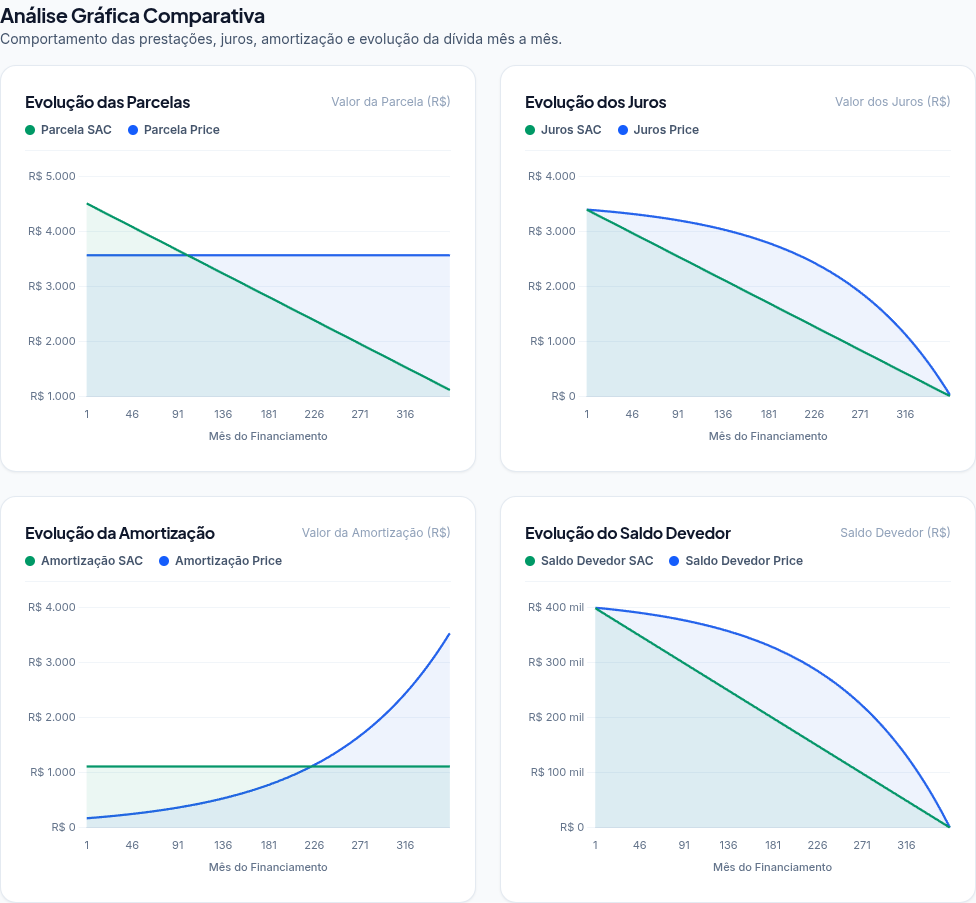
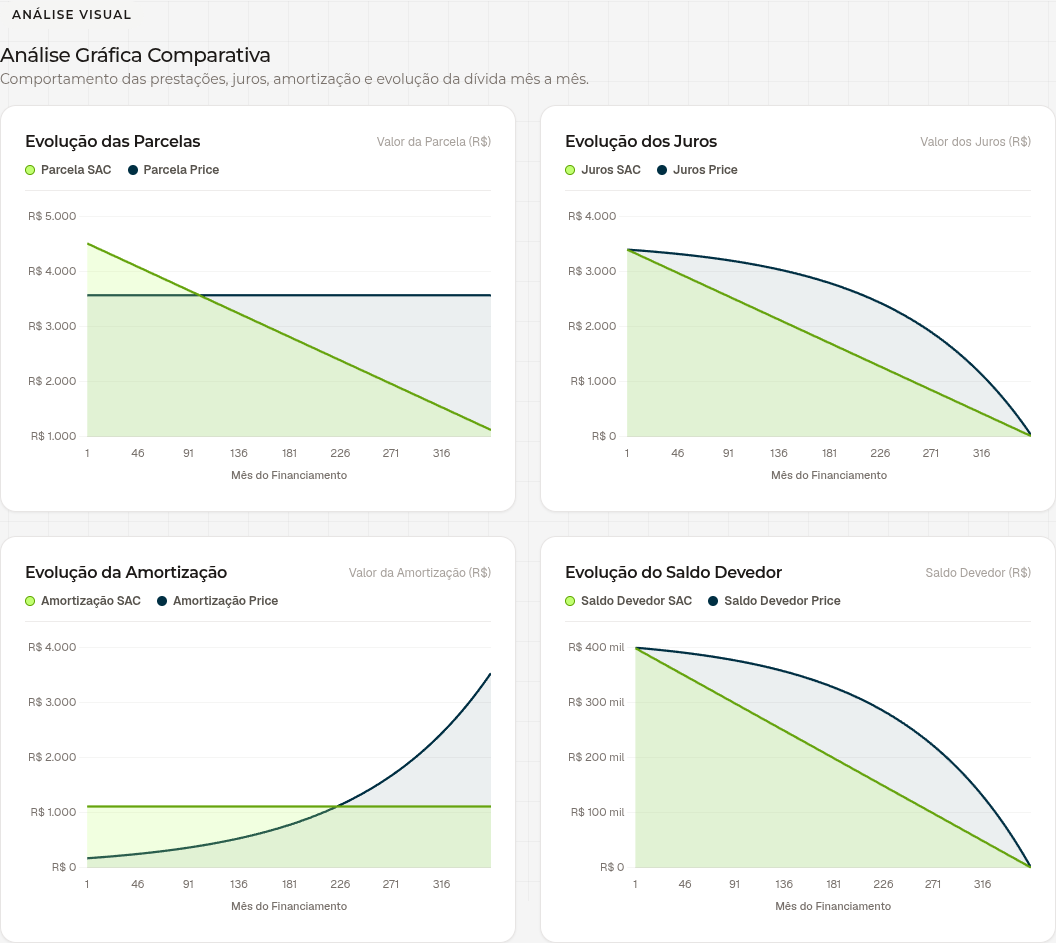
feat: complete Sprint 28 — NectArr static identity, regression, screenshots and v1.6 final QA (code-audit Pass)

diff --git a/SPRINTS.md b/SPRINTS.md
@@ -1,12 +1,12 @@
 # Sprints — Calculadora de Financiamento Imobiliário
 
 **Projeto:** Calculadora de Financiamento Imobiliário  
-**Base:** PRD v1.3 + v1.4 + v1.5 (implementados e validados em 22/10/2026) + v1.6 (Redesign NectArr Design System — Sprints 23–27 concluídas em 01/11/2026, Sprint 28 planejada)  
+**Base:** PRD v1.3 + v1.4 + v1.5 (implementados e validados em 22/10/2026) + v1.6 (Redesign NectArr Design System — Sprints 23–28 concluídas em 01/11/2026)  
 **Metodologia:** Sprints iterativas com entregas incrementais  
 **Stack Frontend:** React 19 + TypeScript ~6.0 + Tailwind CSS 4.3 + Vite 8.1 (Chart.js 4.5, Vitest 5.0, OxLint 1.71)  
 **Stack Infra/Containers (v1.5):** Docker Multi-Stage (`node:22-alpine` + `nginxinc/nginx-unprivileged:stable-alpine`) + Docker Compose  
 **Design System (v1.6):** NectArr Design System (`design_system/design-system.html` — `Geist` + `Montserrat`, Brand Lime `#c1ff72`, Deep Navy `#002f43`, `stone`/`neutral`, `.glass-panel`, `.spotlight-card`, `.grid-lines`)  
-**Status em 01/11/2026:** Sprints 1–27 implementadas e validadas (123 testes passando em 10 arquivos, OxLint/Prettier limpos, `dist/` ~460KB, containers `app`, `dev` e `test` operacionais, Sprints 23, 25, 26 e 27 com code-audit "Pass"); Sprint 28 planejada para conclusão do redesign v1.6.
+**Status em 01/11/2026:** Sprints 1–28 implementadas e validadas (123 testes passando em 10 arquivos, OxLint/Prettier limpos, `dist/` 464KB, containers `app`, `dev` e `test` operacionais, Sprints 23 e 25–28 com code-audit "Pass"); Redesign v1.6 concluído.
 
 ---
 
@@ -714,9 +714,11 @@
 
 ---
 
-## Sprint 28 — Identidade Estática (`favicon`, `og-image`), Regressão, Screenshots e QA Final v1.6
+## Sprint 28 — Identidade Estática (`favicon`, `og-image`), Regressão, Screenshots e QA Final v1.6 — ✅ Concluída em 01/11/2026
 
 **Objetivo:** Atualizar os assets gráficos estáticos, auditar a remoção completa da temática legada (`slate/blue/emerald`), validar os 123+ testes e o container Docker, e regenerar as capturas de tela oficiais do `README.md` (RDS-002, RDS-008, RDS-010).
+
+**Status:** ✅ Implementada e validada em 01/11/2026 — `npm run lint`, `format:check`, `test` (123/123) e `build` (`dist/` 464KB) passando localmente e no container `test` (exit code `0`); screenshots recapturados via Playwright (form preenchido 50000000/10000000/085/360); auditoria de código com veredito "Pass" (zero findings).
 
 ### Tarefas
 
@@ -733,6 +735,12 @@
 ### Dependências
 - Sprints 23–27 concluídas
 
+> **Notas de implementação (01/11/2026):**
+> - **S28-01:** `favicon.svg` usa tile Brand Lime (`#c1ff72`, superfície CTA do DS §02/§03) com glifos Ink (`#1c1917`) e Deep Navy (`#002f43`) para visibilidade em abas claras/escuras — desvio documentado do "fundo `#1c1917`" literal, mantendo as 3 cores da identidade. `og-image.svg` usa superfície de página `neutral-100` (`#f5f5f5`) + card branco com pílulas SAC Lime e Price Navy.
+> - **S28-02:** zero classes utilitárias legadas (`bg-/text-/border-/from-/to-/via-/ring-` + `slate-/blue-/emerald-`) em `src/`; o padrão ingênuo `rg '(slate|emerald|blue)-'` casa apenas o substring `slate` dentro de `-translate-y-` (`InputField.tsx:47,75` — utilitário de transform, não cor). Zero hex legados (`#0F172B`, `#2563EB`, `#38BDF8`, `#34D399`, `#10B981`) e zero referências a `Inter`/`Plus Jakarta Sans` em `src/` + `index.html`.
+> - **S28-03:** `npm run lint` OK, `format:check` OK, `test` 123/123 OK, `build` OK (`dist/` 464KB < 500KB, inclui `favicon.svg` + `og-image.svg`), `docker compose --profile test run --rm --build test` exit `0` (123/123).
+> - **S28-04:** 6 screenshots recapturados em `docs/screenshots/` com a interface NectArr (valores de referência: SAC R$ 4.511,11 inicial, economia R$ 271.328,70 / -21,1%, equilíbrio 101º mês); `README.md`, `calculadora-fi/README.md`, `AGENTS.md`, `PRD.md` e `SPRINTS.md` atualizados para v1.6.
+
 ---
 
 ## Definição de Pronto (DoD)
@@ -747,7 +755,7 @@ Cada Sprint só será considerada completa quando:
 - [ ] Code review realizado
 - [x] Documentação atualizada — PRD v1.3 + v1.4, SPRINTS (Sprints 1–18), README com screenshots em 22/10/2026
 - [x] Dockerização v1.5 — PRD §29 + SPRINTS 19–22 implementados e validados em 22/10/2026 (`app` healthy non-root na porta 8080, `dev` com HMR na porta 5173, `test` com 123/123 testes passando)
-- [ ] Redesign NectArr Design System v1.6 — PRD §30 + SPRINTS 23–28 (Sprints 23–27 concluídas em 01/11/2026; Sprint 28 planejada)
+- [x] Redesign NectArr Design System v1.6 — PRD §30 + SPRINTS 23–28 (Sprints 23–28 concluídas em 01/11/2026)
 
 > DoD específico das Sprints 13–18 (refatoração segura — **concluído**): sem mudança visual/funcional (RFR-001); `npx vitest run` PASS (123 testes / 10 arquivos); `rg 'replace\(/\\./g'` sem ocorrências fora de `format.ts`; `tsc -b && vite build` OK; `npm run lint` zero errors e `format:check` OK.
 
@@ -901,5 +909,5 @@ Sprint 28 (Assets SVG + Auditoria Cromática + 123 Testes + Screenshots)
 
 ---
 
-**Status em 01/11/2026:** Sprints 1–27 implementadas e validadas (123 testes passando em 10 arquivos, `dist/` ~460KB, Dockerização multi-stage + Docker Compose verificados E2E, Sprints 23, 25, 26 e 27 com code-audit "Pass"). Sprint 28 especificada e pronta para implementação final do Redesign v1.6 (`design_system/design-system.html`).  
-**Próximo passo:** Executar a Sprint 28 (Redesign v1.6), seguida de (1) testes cross-browser e (2) PWA / INCC-TR / PDF-XLSX / ITBI.
+**Status em 01/11/2026:** Sprints 1–28 implementadas e validadas (123 testes passando em 10 arquivos, `dist/` 464KB, Dockerização multi-stage + Docker Compose verificados E2E, Sprints 23 e 25–28 com code-audit "Pass"). Redesign v1.6 100% concluído (`design_system/design-system.html`).  
+**Próximo passo:** (1) testes cross-browser e (2) PWA / INCC-TR / PDF-XLSX / ITBI.

diff --git a/README.md b/README.md
@@ -86,7 +86,7 @@ Abas SAC / Price / Comparação com fórmulas e quadro decisório.
 | Testes | Vitest + Testing Library + jsdom | 5.0 + 16.3 |
 | Qualidade | OxLint + Prettier | 1.71 + 3.9 |
 | Containers | Docker Multi-Stage (`node:22-alpine` + `nginxinc/nginx-unprivileged:stable-alpine`) + Docker Compose | — |
-| Fontes | Inter + Plus Jakarta Sans (Google Fonts) | — |
+| Fontes | Geist + Montserrat (Google Fonts, NectArr Design System) | — |
 
 Sem backend. Todos os cálculos são locais no navegador.
 
@@ -220,7 +220,7 @@ Execute dentro de `calculadora-fi/`:
 │   ├── Dockerfile           # Multi-stage (base, dev, check, builder, prod)
 │   ├── nginx.conf           # Configuração SPA, cache, gzip e security headers (porta 8080)
 │   ├── vite.config.ts
-│   ├── dist/                # build (gerado, 460KB em 22/10/2026)
+│   ├── dist/                # build (gerado, 464KB em 01/11/2026)
 │   └── package.json
 ├── docs/
 │   └── screenshots/         # Prints usados neste README
@@ -235,7 +235,7 @@ Execute dentro de `calculadora-fi/`:
 └── README.md                # Este arquivo
 ```
 
-> Documentos de produto em `PRD.md` (v1.5) e `SPRINTS.md` (Sprints 1-22) — ver `## Documentação`.
+> Documentos de produto em `PRD.md` (v1.6) e `SPRINTS.md` (Sprints 1–28) — ver `## Documentação`.
 
 Fórmulas:
 
@@ -256,10 +256,10 @@ Validações exibem mensagens em pt-BR no formulário.
 
 ```bash
 cd calculadora-fi
-npm run test        # 123/123 Vitest passando (10 arquivos) — verificado em 22/10/2026
-npm run lint        # oxlint limpo — verificado em 22/10/2026
+npm run test        # 123/123 Vitest passando (10 arquivos) — verificado em 01/11/2026
+npm run lint        # oxlint limpo — verificado em 01/11/2026
 npm run format:check
-npm run build       # tsc -b + vite build OK — dist/ 460KB (<500KB) em 22/10/2026
+npm run build       # tsc -b + vite build OK — dist/ 464KB (<500KB) em 01/11/2026
 ```
 
 Critérios DoD por sprint: testes passando, build limpo, responsivo (validado em 390px em 22/10/2026; faixa total 320–2560 e cross-browser ainda sem teste formal — ver `SPRINTS.md`).
@@ -277,8 +277,8 @@ npm run dev  # :5173
 
 ## Documentação
 
-- `PRD.md` v1.5 — visão, personas, FR/NFR (+FR-033 a FR-039 pós-MVP), fórmulas, refatoração v1.4 (§28) e Dockerização v1.5 (§29, requisitos DKR-001 a DKR-008) — implementados e validados em 22/10/2026
-- `SPRINTS.md` — Sprints 1–18 (produto + refatoração modular, 123 testes / 10 arquivos) + Sprints 19–22 (Dockerização multi-stage + Nginx non-root + Docker Compose) implementadas e validadas em 22/10/2026
+- `PRD.md` v1.6 — visão, personas, FR/NFR (+FR-033 a FR-039 pós-MVP), fórmulas, refatoração v1.4 (§28), Dockerização v1.5 (§29, requisitos DKR-001 a DKR-008) e Redesign NectArr v1.6 (§30, requisitos RDS-001 a RDS-010) — implementados e validados em 01/11/2026
+- `SPRINTS.md` — Sprints 1–18 (produto + refatoração modular, 123 testes / 10 arquivos) + Sprints 19–22 (Dockerização multi-stage + Nginx non-root + Docker Compose) + Sprints 23–28 (Redesign NectArr Design System) implementadas e validadas em 01/11/2026
 - `calculadora-fi/README.md` — README técnico resumido do app
 
 ## Roadmap
@@ -289,6 +289,7 @@ npm run dev  # :5173
 - [x] Sprint 8: SEO, OG tags, acessibilidade, performance
 - [x] Sprints 12-18: refinos pós-MVP + refatoração modular v1.4 (123 testes)
 - [x] Sprints 19-22: Dockerização multi-stage (`node:22-alpine` + `nginx-unprivileged`) e Docker Compose
+- [x] Sprints 23-28: Redesign NectArr Design System v1.6 (Geist/Montserrat, Brand Lime `#c1ff72`, Deep Navy `#002f43`, 123 testes, Docker verificado, screenshots recapturados)
 - [ ] PWA / salvar simulações localStorage
 - [ ] Comparar com correção INCC/TR
 - [ ] Exportar PDF/XLSX

diff --git a/PRD.md b/PRD.md
@@ -2,7 +2,7 @@
 
 **Versão:** 1.6  
 **Data:** 31 de Outubro de 2026  
-**Status:** v1.3, v1.4 (refatoração Sprints 13–18, 123 testes / 10 arquivos) e v1.5 (Dockerização e Orquestração, Sprints 19–22) implementados e validados; v1.6 (Redesign baseado em `design_system/design-system.html`, Sprints 23–28) planejado  
+**Status:** v1.3, v1.4 (refatoração Sprints 13–18, 123 testes / 10 arquivos), v1.5 (Dockerização e Orquestração, Sprints 19–22) e v1.6 (Redesign baseado em `design_system/design-system.html`, Sprints 23–28) implementados e validados em 01/11/2026  
 
 ---
 
@@ -785,4 +785,4 @@ calculadora-fi/
 | Overhead de performance com `.spotlight-card` em dispositivos móveis/touch | Baixo | Baixa | Efeito `.spotlight-card::before` só fica visível em `:hover` e atualiza CSS variables leves (`--mouse-x`, `--mouse-y`) diretamente no elemento via `currentTarget.style.setProperty` sem causar re-render no React |
 | Aumento do tamanho do bundle acima de 500KB (NFR-006) | Médio | Baixa | Não instalar bibliotecas pesadas de ícones ou UI (manter SVGs inline leves inspirados em Lucide, como já feito no projeto, e CSS nativo/Tailwind v4) |
 
-**Status do PRD:** v1.3 implementado e validado; v1.4 (refatoração, §28 + Sprints 13–18) implementado e validado (123 testes Vitest passando em 10 arquivos, OxLint e Prettier limpos, build `dist/` ~460KB); v1.5 (Dockerização, §29 + Sprints 19–22) implementado e validado em 22/10/2026; v1.6 (Redesign NectArr Design System, §30 + Sprints 23–28) especificado e pronto para execução incremental.
+**Status do PRD:** v1.3 implementado e validado; v1.4 (refatoração, §28 + Sprints 13–18) implementado e validado (123 testes Vitest passando em 10 arquivos, OxLint e Prettier limpos, build `dist/` ~460KB); v1.5 (Dockerização, §29 + Sprints 19–22) implementado e validado em 22/10/2026; v1.6 (Redesign NectArr Design System, §30 + Sprints 23–28) implementado e validado em 01/11/2026 (123/123 testes, `dist/` 464KB, containers `app`/`dev`/`test` operacionais, zero classes `slate/blue/emerald` residuais, `favicon.svg`/`og-image.svg` e `docs/screenshots/*.png` atualizados).

diff --git a/AGENTS.md b/AGENTS.md
@@ -10,7 +10,7 @@ Single app lives in `calculadora-fi/`. Run ALL npm commands there, never at root
 - `npx vitest run <path>` — single suite, e.g. `npx vitest run src/utils/calculations.test.ts`
 - `npm run lint` / `npm run lint:fix` — OxLint (not ESLint; rules in `.oxlintrc.json`)
 - `npm run format` / `npm run format:check` — Prettier, scope is only `src/**/*.{ts,tsx,css,json}` (`printWidth: 100`, single quotes, semi, `es5` trailing commas)
-- Requires Node 20+ (Vite 8). `dist/` is gitignored; production build was ~460KB.
+- Requires Node 20+ (Vite 8). `dist/` is gitignored; production build was ~464KB.
 
 ## Docker Commands (from repo root)
 
@@ -37,4 +37,4 @@ Single app lives in `calculadora-fi/`. Run ALL npm commands there, never at root
 - CSV is pt-BR format (`;` separator, `,` decimal, BOM) with `SAC —` / `PRICE —` sections; download helper lives in `utils/csvDownload.ts` (DOM), generation in `utils/csv.ts` (pure). Check Excel/Sheets compat on change.
 - Tailwind is v4 via `@tailwindcss/vite` plugin, not a config file.
 - `docs/screenshots/*.png` are manual browser captures for `README.md`, not generated — redo via `dev` + fill + screenshot if UI changes.
-- `PRD.md` (v1.5) and `SPRINTS.md` (Sprints 1–22; Sprints 19–22 cover Dockerization) are authoritative for scope; root `README.md` is the usage source of truth.
+- `PRD.md` (v1.6) and `SPRINTS.md` (Sprints 1–28; Sprints 19–22 cover Dockerization, Sprints 23–28 cover the NectArr redesign) are authoritative for scope; root `README.md` is the usage source of truth.

diff --git a/calculadora-fi/README.md b/calculadora-fi/README.md
@@ -20,6 +20,7 @@ Ferramenta gratuita e acessivel para simular e comparar financiamentos imobiliar
 - Tailwind CSS 4
 - Chart.js + react-chartjs-2
 - Vitest (testes)
+- NectArr Design System (Geist + Montserrat, Brand Lime `#c1ff72`, Deep Navy `#002f43`)
 
 ## Inicio Rapido
 
